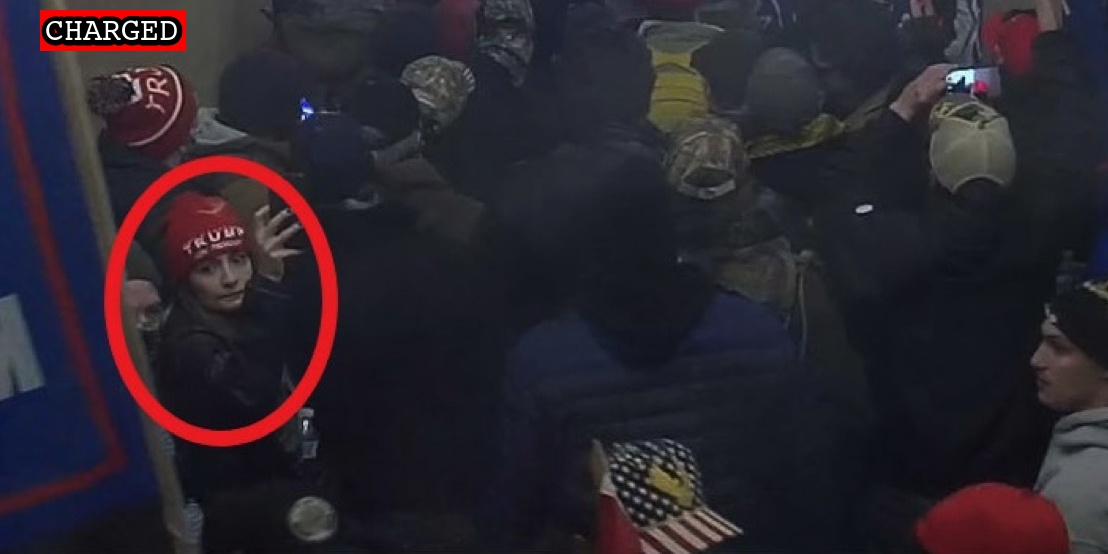
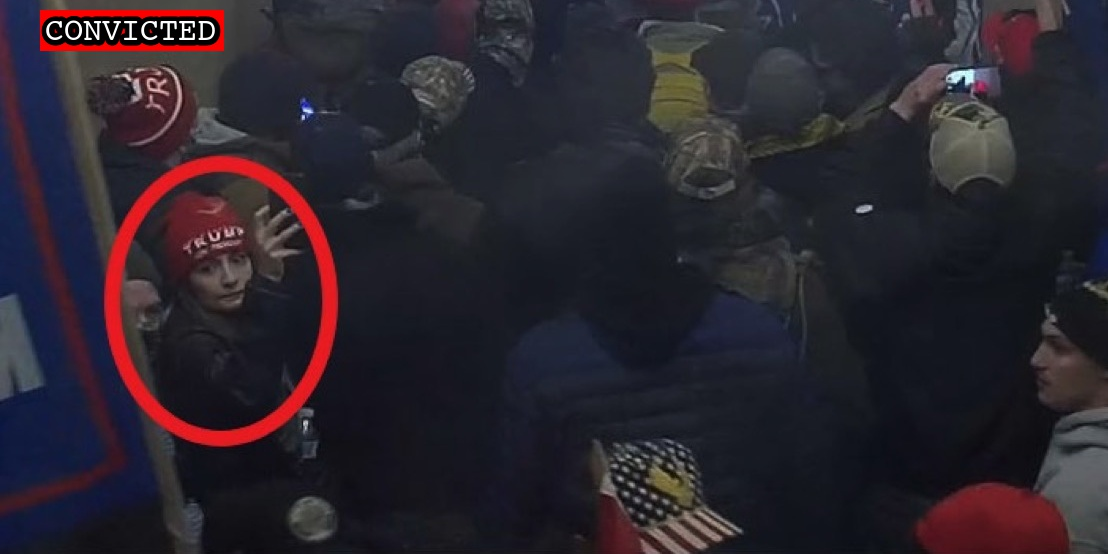
Simmons indictment

Changed region(s): [[0.0614, 0.0, 0.2148, 0.0921]]

diff --git a/docs/_suspects/leticia-ferreira.md b/docs/_suspects/leticia-ferreira.md
@@ -4,15 +4,17 @@ lastName: Ferreira
 hashtag:
 aka:
 residence: Illinois
-status: Charged
+status: Convicted
 date: 2022-02-14
 charged: 2022-02-14
 indicted:
-convicted:
+convicted: 2022-06-22
+acquitted:
 sentenced:
 dismissed:
 deceased:
-plea_hearing:
+plea_hearing: 2022-06-22
+trial_date:
 sentencing:
 age: 32
 occupation:
@@ -25,18 +27,24 @@ courtroom:
 courthouse:
 raid:
 perpwalk:
-quote: 'I’m so irresponsible. Yesterday it felt amazing.'
+quote: "I’m so irresponsible. Yesterday it felt amazing."
 title: Leticia Ferreira charged on February 14th, 2022
 description: Click for latest case details. Suspects innocent until proven guilty.
 author: seditiontrack
 layout: suspect
 published: true
-caseNumber: 1:22-mj-27
+caseNumber: 1:22-cr-210
 videos:
 charges:
+- code: 40 USC § 5104(e)(2)(G)
+  title: Parading, demonstrating or picketing in a Capitol building
+  url: https://www.law.cornell.edu/uscode/text/40/5104
+  felony: false
 sentence:
 ---
-
 - [News Report](https://www.msn.com/en-us/news/us/e2-80-98i-e2-80-99m-so-irresponsible-yesterday-it-felt-amazing-e2-80-99-suburban-woman-from-brazil-arrested-in-us-capitol-breach/ar-AATXOz8)
 - [Complaint](https://www.justice.gov/usao-dc/case-multi-defendant/file/1473451/download)
 - [Statement of Facts](https://www.justice.gov/usao-dc/case-multi-defendant/file/1473456/download)
+- [Information](https://www.justice.gov/usao-dc/case-multi-defendant/file/1514971/download)
+- [Plea Agreement](https://www.justice.gov/usao-dc/case-multi-defendant/file/1514976/download)
+- [Statement of Offense](https://www.justice.gov/usao-dc/case-multi-defendant/file/1514981/download)

diff --git a/docs/_suspects/thomas-caldwell.md b/docs/_suspects/thomas-caldwell.md
@@ -9,12 +9,13 @@ date: 2021-01-19
 charged: 2021-01-19
 indicted: 2021-01-27
 convicted:
+acquitted:
 sentenced:
 dismissed:
 deceased:
 plea_hearing:
-sentencing:
 trial_date: 2022-09-26
+sentencing:
 age: 66
 occupation: Navy (retired)
 affiliations: Oath Keepers, military
@@ -37,11 +38,10 @@ videos:
 charges:
 sentence:
 ---
-
 - [News Report](https://www.washingtonpost.com/local/legal-issues/conspiracy-oath-keeper-arrest-capitol-riot/2021/01/19/fb84877a-5a4f-11eb-8bcf-3877871c819d_story.html)
 - [Complaint](https://www.justice.gov/opa/page/file/1356331/download)
 - [Statement of Facts](https://www.justice.gov/opa/page/file/1360991/download)
 - [DOJ Press Release](https://www.justice.gov/opa/pr/three-individuals-affiliated-oath-keepers-indicted-federal-court-conspiracy-obstruct)
-- [Indictment](https://www.justice.gov/usao-dc/case-multi-defendant/file/1471016/download)
+- [Indictment](https://www.justice.gov/usao-dc/case-multi-defendant/file/1514916/download)
 - [Self Incrimination (Video)](https://www.youtube.com/watch?t=148&v=L5hksM_R59M&feature=youtu.be)
 - [Government Opposition to Reconsideration of Release](https://extremism.gwu.edu/sites/g/files/zaxdzs2191/f/Thomas%20Caldwell%20Goverment%20Release%20Opposition%20Memo.pdf)

diff --git a/docs/_suspects/michael-greene.md b/docs/_suspects/michael-greene.md
@@ -1,0 +1,43 @@
+---
+name: Michael Greene
+lastName: Greene
+hashtag:
+aka: Michael Simmons, Whip
+residence: Indiana
+status: Indicted
+date: 2022-06-22
+charged: 2022-06-22
+indicted: 2022-06-22
+convicted:
+acquitted:
+sentenced:
+dismissed:
+deceased:
+plea_hearing:
+trial_date:
+sentencing:
+age: 39
+occupation:
+affiliations: Oath Keepers
+jurisdiction: Federal
+image: /images/preview/michael-simmons.jpg
+suspect: michael-simmons.jpg
+booking:
+courtroom:
+courthouse:
+raid:
+perpwalk:
+quote:
+title: Michael Greene charged on 6/22/2022
+description: Click for latest case details. Suspects innocent until proven guilty.
+author: seditiontrack
+layout: suspect
+published: true
+caseNumber:
+videos:
+charges:
+sentence:
+---
+
+- [Indictment](https://www.documentcloud.org/documents/22067285-greene_michael_et_al_-_indictment_6-22-22_0)
+- [DOJ Press Release (Indictment)](https://www.justice.gov/usao-dc/pr/member-oath-keepers-indicted-conspiracy-and-other-offenses-related-us-capitol-breach)

diff --git a/docs/_suspects/david-moerschel.md b/docs/_suspects/david-moerschel.md
@@ -40,5 +40,5 @@ sentence:
 ---
 - [News Report](https://www.washingtonpost.com/local/legal-issues/oathkeeper-arrested-david-moerschel/2021/07/02/0f54d5aa-db5d-11eb-9bbb-37c30dcf9363_story.html)
 - [Statement of Facts](https://www.justice.gov/usao-dc/case-multi-defendant/file/1408901/download)
-- [Indictment](https://www.justice.gov/usao-dc/case-multi-defendant/file/1471011/download)
+- [Indictment](https://www.justice.gov/usao-dc/case-multi-defendant/file/1514906/download)
 - [DOJ Press Release (Indictment)](https://www.justice.gov/usao-dc/pr/fifth-superseding-indictment-unsealed-oath-keeper-conspiracy-case-related-jan-6-capitol)

diff --git a/docs/_suspects/edward-vallejo.md b/docs/_suspects/edward-vallejo.md
@@ -9,10 +9,12 @@ date: 2022-01-12
 charged: 2022-01-12
 indicted: 2022-01-12
 convicted:
+acquitted:
 sentenced:
 dismissed:
 deceased:
 plea_hearing:
+trial_date:
 sentencing:
 age: 63
 occupation:
@@ -37,4 +39,4 @@ charges:
 sentence:
 ---
 - [News Report](https://www.azcentral.com/story/news/local/phoenix-breaking/2022/01/13/phoenix-man-edward-vallejo-charged-relation-jan-6-capitol-breach/6516426001/)
-- [Indictment](https://www.justice.gov/usao-dc/case-multi-defendant/file/1470551/download)
+- [Indictment](https://www.justice.gov/usao-dc/case-multi-defendant/file/1514921/download)
